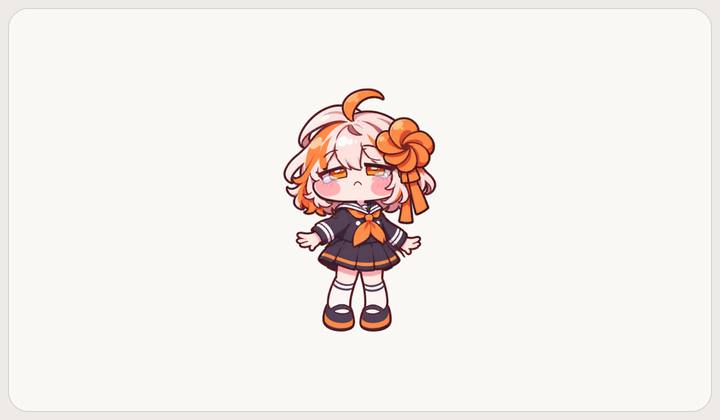
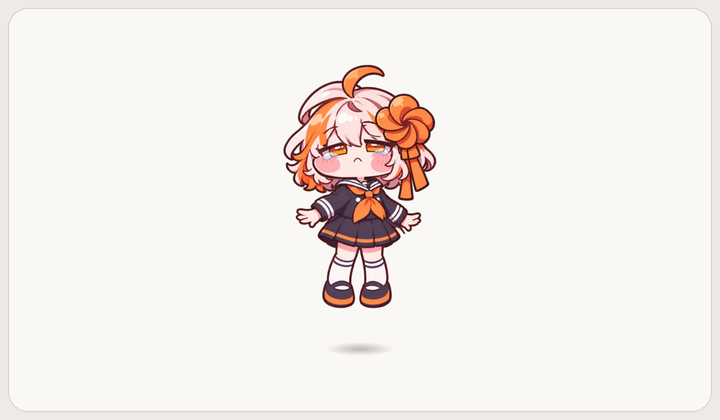
docs: lift image floats above a shadow; side images get labels and arrows (R6a revision)
- lift.png: whole figure raised off the ground with a soft shadow
- side.png -> side.{zh,en,ja}.png: "near the left/right edge" labels, arrows from
  the gap pointing at the bulging cheek (position from rig coordinates, asserted
  to lie inside the figure)
- tests: geometry checks for both; batch count 17 -> 19
- progress: record the revision

Changed region(s): [[0.3667, 0.1548, 0.6111, 0.8667]]

diff --git a/tools/make_media.py b/tools/make_media.py
@@ -31,7 +31,7 @@ STILL_SIZE = (720, 420)
 FONTS = {"zh": "Microsoft YaHei UI", "en": "Cascadia Mono", "ja": "Yu Gothic UI"}
 WEEKLY_SIZE = (600, 750)
 STAMINA_SIZE = (720, 330)
-NAMES = ("hero.gif", "pat.png", "pinch.png", "lift.png", "working.png", "side.png", "desk.png",
+NAMES = ("hero.gif", "pat.png", "pinch.png", "lift.png", "working.png", "side.zh.png", "side.en.png", "side.ja.png", "desk.png",
          "permission.zh.png", "permission.en.png", "permission.ja.png", "sleep-bed.png",
          "weekly.zh.png", "weekly.en.png", "weekly.ja.png",
          "stamina.zh.png", "stamina.en.png", "stamina.ja.png")
@@ -42,6 +42,14 @@ STAMINA_NAMES = {"zh": ("精神", "打哈欠", "趴下", "倒地"),
                  "en": ("Fresh", "Yawning", "Slumped", "Collapsed"),
                  "ja": ("元気", "あくび", "ぐったり", "ダウン")}
 WEEKLY_SEVEN_DAY_PEAK = 68  # 合成的 7 天额度峰值
+LIFT_GAP = 40 * SCALE  # lift.png：脚底到“地面”（影子）的距离
+CHEEK_POINTS = {"left": (325.0, 586.0), "right": (543.0, 586.0)}  # 脸颊按下点（rig 坐标，同 apply_snapshot_gesture）
+# 靠屏幕左半时脸鼓向右（右脸颊鼓），靠右半时鼓向左：左格 = 在屏幕左边 = side "right"。
+SIDE_PANELS = (("right", 0), ("left", 1))
+SIDE_LABELS = {"zh": ("在屏幕左边", "在屏幕右边"),
+               "en": ("Near the left edge", "Near the right edge"),
+               "ja": ("画面の左側", "画面の右側")}
+ARROW_COLOR = "#B5654A"
 
 
 def image_size(name: str) -> tuple[int, int]:
@@ -240,21 +248,101 @@ def working_image():
         return scene.render()
 
 
-def side_image():
-    """靠屏幕左 / 右半边时脸鼓向另一侧：两个窗口并排，脚底对齐。"""
+def lift_image():
+    """被拎起：人物整体离开“地面”LIFT_GAP 像素，地面处留一个淡影子（窗口移动不在截图里，所以在这里补）。"""
+    from PySide6.QtCore import QPointF, Qt
+    from PySide6.QtGui import QColor, QImage, QPainter, QRadialGradient
+
+    pet = gesture_image("lift", 1.0).copy()
+    pet.setDevicePixelRatio(1)  # 按像素拼接
+    left, _, right, bottom = pil_image(pet).getchannel("A").getbbox()
+    canvas = QImage(pet.width(), pet.height() + LIFT_GAP, QImage.Format_ARGB32_Premultiplied)
+    canvas.fill(Qt.transparent)
+    painter = QPainter(canvas)
+    try:
+        painter.setRenderHint(QPainter.Antialiasing)
+        radius = (right - left) * .22
+        shadow = QRadialGradient(QPointF(0, 0), radius)
+        shadow.setColorAt(0, QColor(60, 45, 40, 80))
+        shadow.setColorAt(1, QColor(60, 45, 40, 0))
+        painter.save()
+        painter.translate((left + right) / 2, bottom + LIFT_GAP)
+        painter.scale(1.0, 7 * SCALE / radius)
+        painter.setPen(Qt.NoPen)
+        painter.setBrush(shadow)
+        painter.drawEllipse(QPointF(0, 0), radius, radius)
+        painter.restore()
+        painter.drawImage(0, 0, pet)
+    finally:
+        painter.end()
+    return canvas
+
+
+def cheek_pixel(win, image_size: tuple[int, int], side: str) -> tuple[float, float]:
+    """脸颊按下点在渲染图里的像素位置（窗口：脚底中心 = 画布水平中心；脚底在底边上方 边距 + 脚距）。"""
+    from shion.pet_window import MARGIN_BOTTOM
+    from shion.v3_display import V2_FOOT_GAP_RATIO
+
+    rx, ry = CHEEK_POINTS[side]
+    foot_x, foot_y = win._v3_rig.v3_foot
+    ts, dpr = win.v3_texture_scale, win._v3_dpr
+    return (image_size[0] / 2 + (rx - foot_x) * ts,
+            image_size[1] - (MARGIN_BOTTOM + win._height * V2_FOOT_GAP_RATIO) * dpr + (ry - foot_y) * ts)
+
+
+def side_panel(side: str):
+    """一格：渲染图（1:1 像素）、人物 alpha 外框、鼓起脸颊处的外轮廓 x 和脸颊 y。"""
     from shion.app import SnapshotScene
 
-    pieces = []
-    for side in ("left", "right"):
-        with SnapshotScene("idle", height=260, activity="quiet", seed=SEED, scale=SCALE, side=side) as scene:
-            scene.advance_to(.3)
-            pieces.append(pil_image(scene.render()))
-    gap = 24 * SCALE
-    canvas = Image.new("RGBA", (sum(p.width for p in pieces) + gap, max(p.height for p in pieces)))
-    x = 0
-    for piece in pieces:
-        canvas.alpha_composite(piece, (x, canvas.height - piece.height))
-        x += piece.width + gap
+    with SnapshotScene("idle", height=260, activity="quiet", seed=SEED, scale=SCALE, side=side) as scene:
+        scene.advance_to(.3)
+        image = scene.render().copy()
+        win = scene.win
+        cheek = cheek_pixel(win, (image.width(), image.height()), side)
+    image.setDevicePixelRatio(1)
+    alpha = pil_image(image).getchannel("A")
+    box = alpha.getbbox()
+    if not (box[0] <= cheek[0] <= box[2] and box[1] <= cheek[1] <= box[3]):
+        raise ValueError(f"脸颊点 {cheek} 不在人物外框 {box} 内")
+    row = [x for x in range(alpha.width) if alpha.getpixel((x, round(cheek[1]))) > 0]
+    edge = max(row) if side == "right" else min(row)
+    return image, box, edge, cheek[1]
+
+
+def side_image(lang: str):
+    """靠屏幕左 / 右半边时脸鼓向另一侧：两个人物并排，下方标注位置，箭头从中间指向各自鼓起的脸颊。"""
+    from PySide6.QtCore import QPointF, QRectF, Qt
+    from PySide6.QtGui import QColor, QImage, QPainter, QPen
+    from shion.weekly_ui import card_font
+
+    panels = [side_panel(side) for side, _ in SIDE_PANELS]
+    width = panels[0][0].width()
+    bottom = max(p[1][3] for p in panels)
+    canvas = QImage(width * 2, bottom + 90 * SCALE, QImage.Format_ARGB32_Premultiplied)
+    canvas.fill(Qt.transparent)
+    painter = QPainter(canvas)
+    try:
+        painter.setRenderHint(QPainter.Antialiasing)
+        pen = QPen(QColor(ARROW_COLOR), 5 * SCALE)
+        pen.setCapStyle(Qt.RoundCap)
+        for (side, slot), (image, box, edge, cheek_y), label in zip(SIDE_PANELS, panels, SIDE_LABELS[lang]):
+            offset = slot * width
+            painter.drawImage(offset, 0, image)
+            # 箭头：尖端贴着鼓起一侧的外轮廓，尾巴伸向两个人物之间的空隙。
+            direction = 1 if side == "right" else -1
+            tip = QPointF(offset + edge + direction * 8 * SCALE, cheek_y)
+            tail = QPointF(tip.x() + direction * 54 * SCALE, cheek_y)
+            painter.setPen(pen)
+            painter.drawLine(tail, tip)
+            for dy in (-14 * SCALE, 14 * SCALE):
+                painter.drawLine(tip, QPointF(tip.x() + direction * 18 * SCALE, cheek_y + dy))
+            painter.setPen(QColor("#4A3B36"))
+            painter.setFont(card_font(lang, 36, True))
+            centre = offset + (box[0] + box[2]) / 2
+            painter.drawText(QRectF(centre - 320 * SCALE, bottom + 14 * SCALE, 640 * SCALE, 56 * SCALE),
+                             Qt.AlignHCenter | Qt.AlignTop, label)
+    finally:
+        painter.end()
     return canvas
 
 
@@ -263,9 +351,10 @@ def still_images():
 
     yield "pat.png", pat_image()
     yield "pinch.png", gesture_image("pinch", .6)
-    yield "lift.png", gesture_image("lift", 1.0)
+    yield "lift.png", lift_image()
     yield "working.png", working_image()
-    yield "side.png", side_image()
+    for lang in FONTS:
+        yield f"side.{lang}.png", side_image(lang)
     with SnapshotScene("desk", height=260, seed=SEED, scale=SCALE) as scene:
         scene.advance_to(.3)
         yield "desk.png", scene.render()

diff --git a/tests/test_make_media.py b/tests/test_make_media.py
@@ -91,6 +91,40 @@ def test_hero_uses_one_scene_v3_blink_pinch_pat_work_jump_and_returns_to_identic
     assert not isValid(scenes[0].win)
 
 
+def alpha_of(image):
+    return media.pil_image(image).getchannel("A")
+
+
+def test_lift_image_floats_above_a_soft_shadow(qapp):
+    image = media.lift_image()
+    alpha = alpha_of(image)
+    box = alpha.getbbox()
+    rows = [alpha.crop((0, y, alpha.width, y + 1)).getbbox() for y in range(alpha.height)]
+    shadow = [y for y in range(box[3] - 1, 0, -1) if rows[y]]
+    # 最下面是影子：半透明、不是实心；影子与人物脚底之间有整行透明（人物确实离地）。
+    assert max(alpha.getpixel((x, box[3] - 1)) for x in range(alpha.width)) < 255
+    pet_bottom = max(y for y in range(alpha.height) if rows[y] and max(alpha.getpixel((x, y)) for x in range(alpha.width)) == 255)
+    assert any(rows[y] is None for y in range(pet_bottom + 1, box[3])) and shadow
+    assert box[3] - pet_bottom >= media.LIFT_GAP
+
+
+def test_side_images_label_both_panels_and_point_arrows_at_the_bulging_cheek(qapp):
+    from shion.app import SnapshotScene
+    images = {lang: media.side_image(lang) for lang in media.FONTS}
+    assert len(set(media.SIDE_LABELS.values())) == 3 and pixels(images["zh"]) != pixels(images["en"])  # 三语标签不同（测试用 qapp 没有固定字体，中日缺字时都是方块，不比 zh/ja 像素）
+    assert [side for side, _ in media.SIDE_PANELS] == ["right", "left"]  # 在屏幕左边 = 右脸颊鼓
+    panels = [media.side_panel(side) for side, _ in media.SIDE_PANELS]
+    assert pixels(panels[0][0]) != pixels(panels[1][0])  # 两格人物不同
+    for (side, _), (image, box, edge, cheek_y) in zip(media.SIDE_PANELS, panels):
+        assert box[1] < cheek_y < box[3]
+        assert (edge >= (box[0] + box[2]) / 2) == (side == "right")  # 轮廓边缘在鼓起的一侧
+    # 箭头不互相重叠：两个箭头尾巴之间留有空隙（右格的尾巴在左格尾巴的右边）。
+    width = panels[0][0].width()
+    tail0 = panels[0][2] + 8 * media.SCALE + 54 * media.SCALE
+    tail1 = width + panels[1][2] - 8 * media.SCALE - 54 * media.SCALE
+    assert tail1 - tail0 >= 16 * media.SCALE
+
+
 def small_batch(directory):
     directory.mkdir()
     for name in media.NAMES:
@@ -167,7 +201,7 @@ print(json.dumps(first))
                             capture_output=True, timeout=600)  # V3 的预热放在当前线程做，整套约 2 分钟/批
     assert result.returncode == 0, result.stderr.decode(errors="replace")
     report = json.loads(result.stdout)
-    assert len(report) == len(media.NAMES) == 17
+    assert len(report) == len(media.NAMES) == 19
     other = tmp_path / "second"
     result = subprocess.run([sys.executable, "tools/make_media.py", "--output-dir", str(other)],
                             cwd=root, capture_output=True, timeout=600)

diff --git a/docs/progress.md b/docs/progress.md
@@ -70,7 +70,8 @@
     - **体积**：`hero.gif` 1,975,678 字节（上限 2,000,000，**余量只有约 2.4%**，以后再加内容要先降色或删段）；静态图 55～72 KB，周报 183～193 KB，体力 102～106 KB；17 张共 3,498,762 字节，连 menu / icon 目录总计 3,969,483（上限 6,000,000）。逐帧差异曲线显示每一段都有动作；画面本身我按规矩没打开，等用户看。
     - **与计划不同**：①`working.png` 没带工作气泡——`--snapshot` 的气泡合成只支持 1x，配图是 2x；②hero 从 4 秒 / 80 帧改为 5 秒 / 100 帧（四段动作 4 秒放不下），`GIF_DURATION_MS` 随帧数算，校验和测试同步；③`pil_image` 现在也接受 PIL 图（`side.png` 先在 PIL 里并排）。
     - **测试**：`test_make_media`（含原生整批 + 独立进程 CLI 逐字节比对，约 8 分钟）、`test_release`、`test_windowing`、`test_v3_default` 全过（先 77 passed、1 skipped、2 failed，两项是硬编码的“13 张”“版本 2.2”，已改，复跑通过）。没跑全仓（只改了版本号、文档和媒体工具，全仓留到 R6b 末尾）。
-    - **R6b 待做**：三语 README（开头演示图说明、日常互动含“只能捏着脸往上提”、体力四档、系统要求体积与内存、已知限制、从源码运行去掉 `process_sprites.py` / 加 scipy pillow、许可）、`THIRD_PARTY_NOTICES.md` 补 NumPy、`build/release-notes-3.0.0.md` 草稿、`docs/spec.md:731` 一带残余、R5 留下的 README 第 224 行措辞；README 要用上 `pinch / lift / working / side` 四张新图。
+    - **R6a 修订（用户看图后，hero / pinch / working 通过，改两张）**：①`lift.png`：整体离地 `LIFT_GAP`（80 像素 @2x），地面处加淡影子（`lift_image()`，窗口移动不在截图里，所以在配图里补）；②`side` 改按语言出三张 `side.{zh,en,ja}.png`（`side.png` 删除，`NAMES` 17→19）：左格 = “在屏幕左边”（右脸颊鼓）、右格 = “在屏幕右边”（左脸颊鼓），下方各有标签，箭头从两格之间指向鼓起一侧的外轮廓。箭头位置由 rig 坐标 `(325,586)` / `(543,586)` 经 `cheek_pixel()` 换算，并断言脸颊点落在人物外框内；两个箭头尾巴之间留 48 像素空隙（第一版长度 80 会在中间连成一条线，已缩到 54）。测试加 2 项几何断言（离地有整行透明 + 影子半透明；轮廓边缘在鼓起一侧、箭头不重叠），三语标签用 `SIDE_LABELS` 文字是否不同判断（测试用 qapp 没有固定字体，中日缺字都是方块）。其余 15 张与上一版逐字节一致；19 张共 3,663,341 字节，连 menu / icon 总计 4,134,062（上限 6,000,000）。
+    - **R6b 待做**：三语 README（开头演示图说明、日常互动含“只能捏着脸往上提”、体力四档、系统要求体积与内存、已知限制、从源码运行去掉 `process_sprites.py` / 加 scipy pillow、许可）、`THIRD_PARTY_NOTICES.md` 补 NumPy、`build/release-notes-3.0.0.md` 草稿、`docs/spec.md:731` 一带残余、R5 留下的 README 第 224 行措辞；README 要用上 `pinch / lift / working / side.{zh,en,ja}` 新图。
 - [ ] R7 打包版真机验收（exe）与替换 Shion-dev——【停点 R7】
 - [ ] R8 推送前审查、合并 master、标签、Release——【停点 R8a】，用户同意后才 push
 
